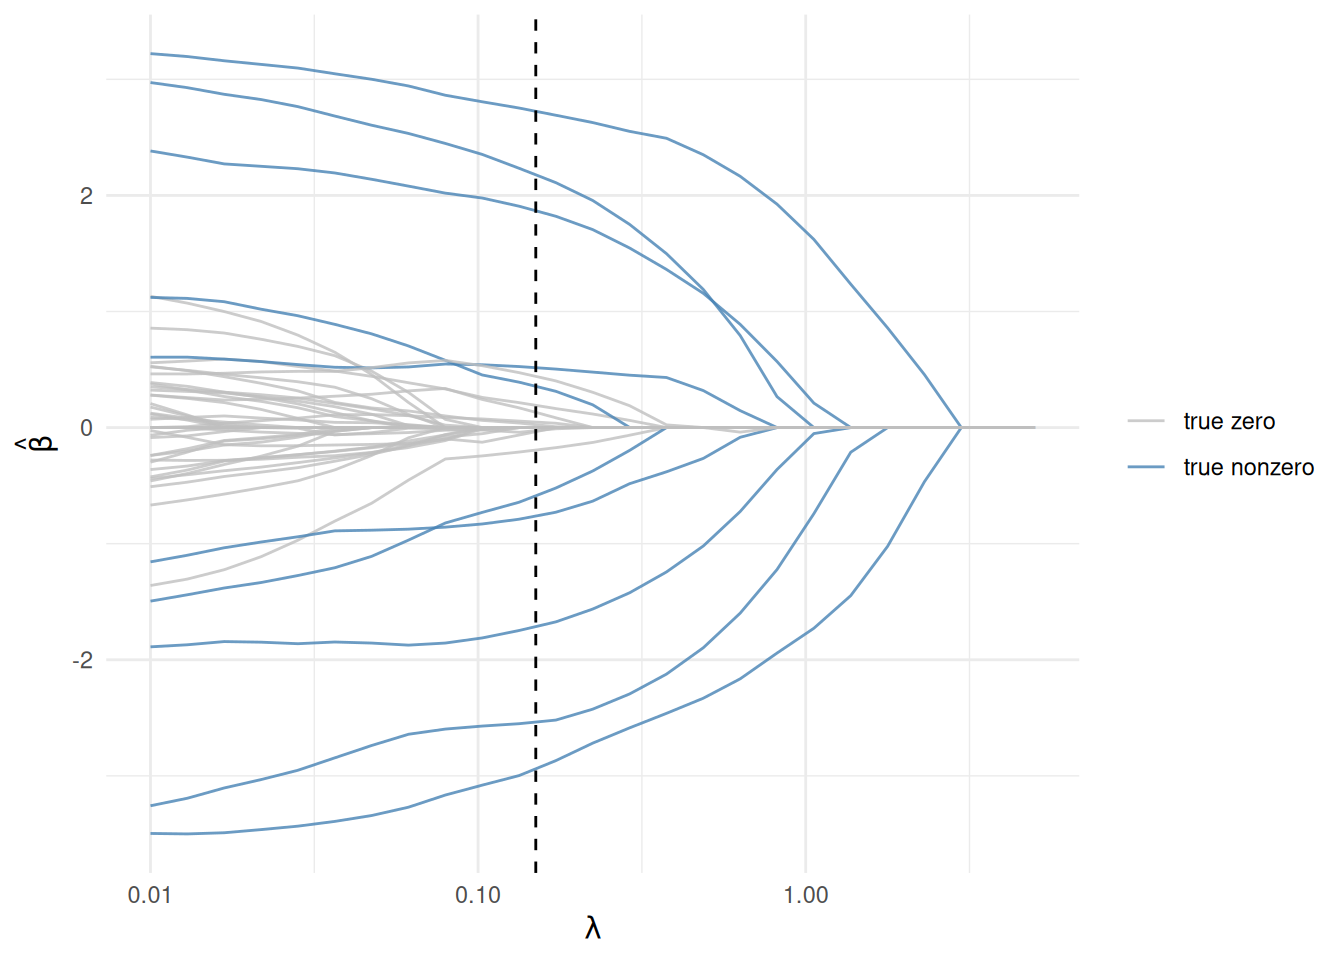
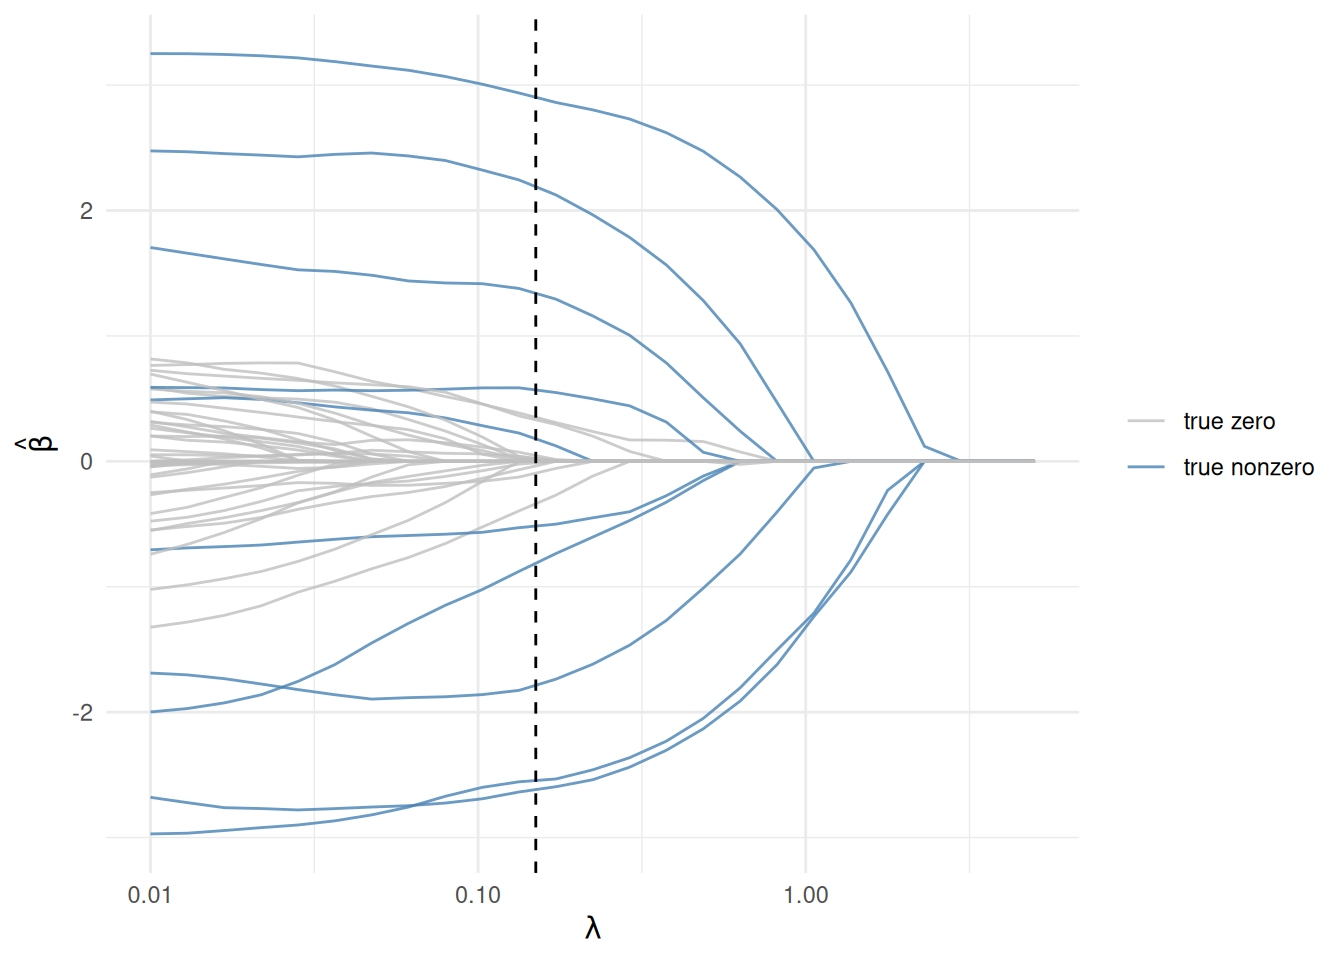
Built site for gh-pages

diff --git a/08-dpp.html b/08-dpp.html
@@ -484,7 +484,7 @@ Is DCP? TRUE </code></pre>
 <pre><code>ℹ Compilation: "OSQP" via CVXR::Dcp2Cone -&gt; CVXR::CvxAttr2Constr -&gt; CVXR::ConeMatrixStuffing -&gt; CVXR::OSQP_QP_Solver</code></pre>
 </div>
 <div class="cell-output cell-output-stderr">
-<pre><code>ℹ Compile time: 0.384s</code></pre>
+<pre><code>ℹ Compile time: 0.421s</code></pre>
 </div>
 <div class="cell-output cell-output-stderr">
 <pre><code>─────────────────────────────── Numerical solver ───────────────────────────────</code></pre>
@@ -508,11 +508,11 @@ settings: algebra = Built-in,
           scaling: on (10 iterations), scaled_termination: off
           warm starting: on, polishing: on, 
 iter   objective    prim res   dual res   gap        rel kkt    rho         time
-   1  -1.6000e+02   8.00e+00   6.83e+02  -3.13e+03   6.83e+02   1.00e-01    7.81e-04s
-  50   8.0194e+01   6.18e-02   2.66e-03  -1.87e-01   6.18e-02   5.00e-01*   1.39e-03s
- 100   8.0454e+01   8.44e-03   7.36e-05  -6.66e-03   8.44e-03   5.57e+00*   2.16e-03s
- 200   8.0462e+01   1.33e-05   5.75e-07  -1.90e-06   1.33e-05   5.57e+00    3.53e-03s
-plsh   8.0462e+01   1.46e-15   1.28e-14  -5.68e-14   1.28e-14   --------    4.01e-03s
+   1  -1.6000e+02   8.00e+00   6.83e+02  -3.13e+03   6.83e+02   1.00e-01    7.55e-04s
+  50   8.0194e+01   6.18e-02   2.66e-03  -1.87e-01   6.18e-02   5.00e-01*   1.47e-03s
+ 100   8.0454e+01   8.44e-03   7.36e-05  -6.66e-03   8.44e-03   5.57e+00*   2.40e-03s
+ 200   8.0462e+01   1.33e-05   5.75e-07  -1.90e-06   1.33e-05   5.57e+00    4.05e-03s
+plsh   8.0462e+01   1.46e-15   1.28e-14  -5.68e-14   1.28e-14   --------    4.63e-03s
 
 status:               solved
 solution polishing:   successful
@@ -521,7 +521,7 @@ optimal objective:    80.4620
 dual objective:       80.4620
 duality gap:          -5.6843e-14
 primal-dual integral: 3.1311e+03
-run time:             4.01e-03s
+run time:             4.63e-03s
 optimal rho estimate: 2.78e+01</code></pre>
 </div>
 <div class="cell-output cell-output-stderr">
@@ -534,10 +534,10 @@ optimal rho estimate: 2.78e+01</code></pre>
 <pre><code>✔ Optimal value: 80.462</code></pre>
 </div>
 <div class="cell-output cell-output-stderr">
-<pre><code>ℹ Compile time: 0.384s</code></pre>
+<pre><code>ℹ Compile time: 0.421s</code></pre>
 </div>
 <div class="cell-output cell-output-stderr">
-<pre><code>ℹ Solver time: 0.025s</code></pre>
+<pre><code>ℹ Solver time: 0.028s</code></pre>
 </div>
 <div class="cell-output cell-output-stdout">
 <pre><code>[1] 80.46205</code></pre>
@@ -560,7 +560,7 @@ optimal rho estimate: 2.78e+01</code></pre>
 <pre><code>ℹ Compilation: "OSQP" via CVXR::Dcp2Cone -&gt; CVXR::CvxAttr2Constr -&gt; CVXR::ConeMatrixStuffing -&gt; CVXR::OSQP_QP_Solver</code></pre>
 </div>
 <div class="cell-output cell-output-stderr">
-<pre><code>ℹ Compile time: 0.032s</code></pre>
+<pre><code>ℹ Compile time: 0.036s</code></pre>
 </div>
 <div class="cell-output cell-output-stderr">
 <pre><code>─────────────────────────────── Numerical solver ───────────────────────────────</code></pre>
@@ -584,10 +584,10 @@ settings: algebra = Built-in,
           scaling: on (10 iterations), scaled_termination: off
           warm starting: on, polishing: on, 
 iter   objective    prim res   dual res   gap        rel kkt    rho         time
-   1  -2.2400e+02   8.00e+00   9.56e+02  -4.38e+03   9.56e+02   1.00e-01    8.48e-04s
- 150   8.1079e+01   1.52e-02   9.34e-07  -2.57e-02   1.52e-02   1.44e+01*   2.67e-03s
- 200   8.1117e+01   8.80e-07   7.04e-07  -2.81e-07   8.80e-07   1.44e+01    3.47e-03s
-plsh   8.1117e+01   1.27e-15   1.67e-14   7.96e-14   7.96e-14   --------    3.94e-03s
+   1  -2.2400e+02   8.00e+00   9.56e+02  -4.38e+03   9.56e+02   1.00e-01    8.13e-04s
+ 150   8.1079e+01   1.52e-02   9.34e-07  -2.57e-02   1.52e-02   1.44e+01*   3.02e-03s
+ 200   8.1117e+01   8.80e-07   7.04e-07  -2.81e-07   8.80e-07   1.44e+01    3.94e-03s
+plsh   8.1117e+01   1.27e-15   1.67e-14   7.96e-14   7.96e-14   --------    4.47e-03s
 
 status:               solved
 solution polishing:   successful
@@ -596,7 +596,7 @@ optimal objective:    81.1172
 dual objective:       81.1172
 duality gap:          7.9581e-14
 primal-dual integral: 4.3836e+03
-run time:             3.94e-03s
+run time:             4.47e-03s
 optimal rho estimate: 1.82e+01</code></pre>
 </div>
 <div class="cell-output cell-output-stderr">
@@ -609,10 +609,10 @@ optimal rho estimate: 1.82e+01</code></pre>
 <pre><code>✔ Optimal value: 81.1172</code></pre>
 </div>
 <div class="cell-output cell-output-stderr">
-<pre><code>ℹ Compile time: 0.032s</code></pre>
+<pre><code>ℹ Compile time: 0.036s</code></pre>
 </div>
 <div class="cell-output cell-output-stderr">
-<pre><code>ℹ Solver time: 0.034s</code></pre>
+<pre><code>ℹ Solver time: 0.041s</code></pre>
 </div>
 <div class="cell-output cell-output-stdout">
 <pre><code>[1] 81.11721</code></pre>
@@ -634,8 +634,8 @@ optimal rho estimate: 1.82e+01</code></pre>
 <pre><code># A tibble: 2 × 4
   expression        min   median mem_alloc
   &lt;bch:expr&gt;   &lt;bch:tm&gt; &lt;bch:tm&gt; &lt;bch:byt&gt;
-1 DPP re-solve   8.99ms   9.33ms   554.7KB
-2 rebuild       25.09ms  25.92ms     9.7MB</code></pre>
+1 DPP re-solve   10.3ms   11.4ms   554.7KB
+2 rebuild        28.7ms   30.1ms     9.7MB</code></pre>
 </div>
 </div>
 <p>On our machine the DPP re-solve is roughly <strong>2–3× faster per solve</strong> and allocates less memory — precisely the compile time we just watched drop. Over a sweep of <span class="math inline">\(K\)</span> values you save that difference <span class="math inline">\(K\)</span> times.</p>

diff --git a/appendix-mosek.html b/appendix-mosek.html
@@ -406,10 +406,11 @@ window.Quarto = {
      this short chapter shows how to plug in MOSEK (free for academics) for the cases
      where a commercial conic solver helps. The solve chunk is `eval: false` on purpose
      so the chapter renders without MOSEK installed. The captured output is genuine:
-     a 5x5 nearest-PSD SDP solved with MOSEK 11.1.2 on 2026-06-10. The CVXR summary is
-     real psolve(verbose=TRUE) output; MOSEK's native log is real Rmosek verbose=10
-     output (CVXR will stream it inline under verbose in a future release --- see
-     new_design/features/TODO.md). -->
+     a 5x5 nearest-PSD SDP solved with CVXR 1.9.2 + MOSEK 11.1.2 on 2026-08-24. The
+     CVXR summary is real psolve(verbose=TRUE) output; MOSEK's native log is real
+     Rmosek verbose=10 output (CVXR will stream it inline under verbose in a future
+     release --- see new_design/features/TODO.md). To regenerate: flip eval to true,
+     render locally with MOSEK installed, paste the output back, flip eval off. -->
 <div class="callout callout-style-default callout-note callout-titled">
 <div class="callout-header d-flex align-content-center">
 <div class="callout-icon-container">
@@ -488,17 +489,18 @@ window.Quarto = {
 </div>
 </div>
 <p>With <code>verbose = TRUE</code>, CVXR reports the compilation and the solve summary — note that the chosen solver is <code>MOSEK</code>, and that compile time and solver time are tracked separately (<a href="08-dpp.html" class="quarto-xref"><span>Chapter 8</span></a>):</p>
-<pre><code>────────────────────────────── CVXR v1.9.1 ──────────────────────────────
+<pre><code>────────────────────────────── CVXR v1.9.2 ──────────────────────────────
 ℹ Problem: 1 variable, 0 constraints (DCP)
 ℹ Compilation: "MOSEK" via CVXR::Dcp2Cone -&gt; CVXR::CvxAttr2Constr -&gt;
-               CVXR::ConeMatrixStuffing -&gt; CVXR::Mosek_Solver
-ℹ Compile time: 0.21s
+               CVXR::ExactCone2Cone -&gt; CVXR::ConeMatrixStuffing -&gt;
+               CVXR::Mosek_Solver
+ℹ Compile time: 0.091s
 ─────────────────────────── Numerical solver ────────────────────────────
 ──────────────────────────────── Summary ────────────────────────────────
 ✔ Status: optimal
 ✔ Optimal value: 3.6305
-ℹ Compile time: 0.21s
-ℹ Solver time: 0.019s</code></pre>
+ℹ Compile time: 0.091s
+ℹ Solver time: 0.024s</code></pre>
 <p>MOSEK also keeps its <strong>own</strong> detailed log of the solve — the problem type, the interior-point iteration table, and a final optimizer summary. A future CVXR release will stream this log inline whenever you pass <code>verbose = TRUE</code> (as CVXPY does); here is what MOSEK reports for this SDP:</p>
 <pre><code>Problem
   Name                   :
@@ -506,6 +508,8 @@ window.Quarto = {
   Type                   : CONIC (conic optimization problem)
   Constraints            : 0
   Affine conic cons.     : 2 (42 rows)
+  Disjunctive cons.      : 0
+  Cones                  : 0
   Scalar variables       : 16
   Matrix variables       : 1 (scalarized: 1)
   Integer variables      : 0
@@ -528,16 +532,16 @@ ITE PFEAS    DFEAS    GFEAS    PRSTATUS   POBJ              DOBJ              MU
 6   4.0e-06  2.5e-06  1.1e-08  1.00e+00   3.630469253e+00   3.630462235e+00   2.5e-06  0.00
 7   4.0e-07  2.5e-07  3.7e-10  1.00e+00   3.630493170e+00   3.630492590e+00   2.5e-07  0.00
 8   1.2e-08  7.5e-09  2.0e-12  1.00e+00   3.630495992e+00   3.630495975e+00   7.5e-09  0.00
-Optimizer terminated. Time: 0.00
+Optimizer terminated. Time: 0.01
 
 Interior-point solution summary
   Problem status  : PRIMAL_AND_DUAL_FEASIBLE
   Solution status : OPTIMAL
-  Primal.  obj: 3.6304959921e+00    nrm: 4e+00    Viol.  var: 0e+00   barvar: 0e+00
-  Dual.    obj: 3.6304959749e+00    nrm: 2e+00    Viol.  var: 2e-11   barvar: 1e-24
+  Primal.  obj: 3.6304959921e+00    nrm: 4e+00    Viol.  var: 0e+00   barvar: 0e+00   acc: 3e-08
+  Dual.    obj: 3.6304959749e+00    nrm: 2e+00    Viol.  var: 2e-11   barvar: 1e-24   acc: 7e-09
 Optimizer summary
-  Optimizer              -                    time: 0.00
-    Interior-point       - iterations : 8     time: 0.00
+  Optimizer              -                    time: 0.01
+    Interior-point       - iterations : 8     time: 0.01
     Simplex              - iterations : 0     time: 0.00
     Mixed integer        - relaxations: 0     time: 0.00</code></pre>
 <p>Read the iteration table top to bottom: MOSEK drives the primal/dual feasibility residuals (<code>PFEAS</code>, <code>DFEAS</code>) and the duality gap (<code>MU</code>) down toward zero, the primal and dual objectives (<code>POBJ</code>, <code>DOBJ</code>) squeeze together, and after eight interior-point iterations they meet at the optimal value <strong>3.6305</strong> — exactly the number in CVXR’s summary. The solution <span class="math inline">\(X^\star\)</span> is the original matrix with its negative eigenvalues clipped to zero, which is the classic closed form for this problem; CVXR and MOSEK recover it numerically without you having to know that.</p>

diff --git a/02-gentle-intro.html b/02-gentle-intro.html
@@ -548,7 +548,7 @@ window.Quarto = {
 <pre><code>ℹ Compilation: "OSQP" via CVXR::Dcp2Cone -&gt; CVXR::CvxAttr2Constr -&gt; CVXR::ConeMatrixStuffing -&gt; CVXR::OSQP_QP_Solver</code></pre>
 </div>
 <div class="cell-output cell-output-stderr">
-<pre><code>ℹ Compile time: 0.211s</code></pre>
+<pre><code>ℹ Compile time: 0.236s</code></pre>
 </div>
 <div class="cell-output cell-output-stderr">
 <pre><code>─────────────────────────────── Numerical solver ───────────────────────────────</code></pre>
@@ -572,9 +572,9 @@ settings: algebra = Built-in,
           scaling: on (10 iterations), scaled_termination: off
           warm starting: on, polishing: on, 
 iter   objective    prim res   dual res   gap        rel kkt    rho         time
-   1   0.0000e+00   1.00e+00   1.00e+02  -5.00e+01   1.00e+02   1.00e-01    3.96e-05s
-  50   2.0000e-01   4.87e-10   6.73e-10   2.79e-10   6.73e-10   1.00e-01    5.42e-05s
-plsh   2.0000e-01   1.57e-16   1.57e-16  -1.11e-16   1.57e-16   --------    7.29e-05s
+   1   0.0000e+00   1.00e+00   1.00e+02  -5.00e+01   1.00e+02   1.00e-01    5.34e-05s
+  50   2.0000e-01   4.87e-10   6.73e-10   2.79e-10   6.73e-10   1.00e-01    7.80e-05s
+plsh   2.0000e-01   1.57e-16   1.57e-16  -1.11e-16   1.57e-16   --------    1.07e-04s
 
 status:               solved
 solution polishing:   successful
@@ -583,7 +583,7 @@ optimal objective:    0.2000
 dual objective:       0.2000
 duality gap:          -1.1102e-16
 primal-dual integral: 5.0000e+01
-run time:             7.29e-05s
+run time:             1.07e-04s
 optimal rho estimate: 7.60e-02</code></pre>
 </div>
 <div class="cell-output cell-output-stderr">
@@ -596,10 +596,10 @@ optimal rho estimate: 7.60e-02</code></pre>
 <pre><code>✔ Optimal value: 0.2</code></pre>
 </div>
 <div class="cell-output cell-output-stderr">
-<pre><code>ℹ Compile time: 0.211s</code></pre>
+<pre><code>ℹ Compile time: 0.236s</code></pre>
 </div>
 <div class="cell-output cell-output-stderr">
-<pre><code>ℹ Solver time: 0.046s</code></pre>
+<pre><code>ℹ Solver time: 0.054s</code></pre>
 </div>
 <div class="cell-output cell-output-stdout">
 <pre><code>[1] 0.2</code></pre>
@@ -730,10 +730,10 @@ X10  5.09475916  5.09475916</code></pre>
 <div class="code-copy-outer-scaffold"><div class="sourceCode cell-code" id="cb45"><pre class="sourceCode r code-with-copy"><code class="sourceCode r"><span id="cb45-1"><a href="#cb45-1" aria-hidden="true" tabindex="-1"></a><span class="fu">value</span>(beta)</span></code></pre></div><button title="Copy to Clipboard" class="code-copy-button"><i class="bi"></i></button></div>
 <div class="cell-output cell-output-stdout">
 <pre><code>               [,1]
- [1,] -3.673960e-18
- [2,] -2.797969e-18
- [3,]  2.131154e-18
- [4,]  4.339122e-19
+ [1,] -3.663280e-18
+ [2,] -2.775389e-18
+ [3,]  2.116383e-18
+ [4,]  4.424205e-19
  [5,]  1.190672e+00
  [6,]  1.460162e+00
  [7,]  1.817840e+00
@@ -747,10 +747,10 @@ X10  5.09475916  5.09475916</code></pre>
 <div class="code-copy-outer-scaffold"><div class="sourceCode cell-code" id="cb47"><pre class="sourceCode r code-with-copy"><code class="sourceCode r"><span id="cb47-1"><a href="#cb47-1" aria-hidden="true" tabindex="-1"></a><span class="fu">cbind</span>(<span class="at">CVXR =</span> <span class="fu">value</span>(beta), <span class="at">nnls =</span> nnls<span class="sc">::</span><span class="fu">nnls</span>(X, Y)<span class="sc">$</span>x)</span></code></pre></div><button title="Copy to Clipboard" class="code-copy-button"><i class="bi"></i></button></div>
 <div class="cell-output cell-output-stdout">
 <pre><code>                        nnls
- [1,] -3.673960e-18 0.000000
- [2,] -2.797969e-18 0.000000
- [3,]  2.131154e-18 0.000000
- [4,]  4.339122e-19 0.000000
+ [1,] -3.663280e-18 0.000000
+ [2,] -2.775389e-18 0.000000
+ [3,]  2.116383e-18 0.000000
+ [4,]  4.424205e-19 0.000000
  [5,]  1.190672e+00 1.190672
  [6,]  1.460162e+00 1.460162
  [7,]  1.817840e+00 1.817840

diff --git a/05-elastic-net.html b/05-elastic-net.html
@@ -470,7 +470,7 @@ window.Quarto = {
 <span id="cb3-4"><a href="#cb3-4" aria-hidden="true" tabindex="-1"></a>prob <span class="ot">&lt;-</span> <span class="fu">Problem</span>(<span class="fu">Minimize</span>(loss <span class="sc">+</span> <span class="fu">elastic_reg</span>(beta, lambda, <span class="at">alpha =</span> <span class="dv">1</span>)))</span>
 <span id="cb3-5"><a href="#cb3-5" aria-hidden="true" tabindex="-1"></a><span class="fu">psolve</span>(prob)</span></code></pre></div><button title="Copy to Clipboard" class="code-copy-button"><i class="bi"></i></button></div>
 <div class="cell-output cell-output-stdout">
-<pre><code>[1] 3.958451</code></pre>
+<pre><code>[1] 3.864977</code></pre>
 </div>
 <div class="code-copy-outer-scaffold"><div class="sourceCode cell-code" id="cb5"><pre class="sourceCode r code-with-copy"><code class="sourceCode r"><span id="cb5-1"><a href="#cb5-1" aria-hidden="true" tabindex="-1"></a><span class="fu">check_solver_status</span>(prob)</span></code></pre></div><button title="Copy to Clipboard" class="code-copy-button"><i class="bi"></i></button></div>
 </div>
@@ -484,19 +484,19 @@ window.Quarto = {
 <span id="cb6-6"><a href="#cb6-6" aria-hidden="true" tabindex="-1"></a>           <span class="at">glmnet =</span> <span class="fu">round</span>(<span class="fu">as.numeric</span>(<span class="fu">coef</span>(g)[<span class="sc">-</span><span class="dv">1</span>]), <span class="dv">3</span>))[<span class="fu">c</span>(nz, <span class="dv">2</span>, <span class="dv">3</span>, <span class="dv">4</span>), ]</span></code></pre></div><button title="Copy to Clipboard" class="code-copy-button"><i class="bi"></i></button></div>
 <div class="cell-output cell-output-stdout">
 <pre><code>   truth   CVXR glmnet
-1    3.0  2.726  2.725
-5   -2.5 -2.540 -2.540
-10   2.0  1.871  1.870
-15  -1.5 -0.764 -0.764
-20   1.0  0.358  0.358
-25  -3.0 -2.943 -2.943
-30   2.5  2.181  2.181
-35  -2.0 -1.716 -1.717
-40   1.5  0.517  0.520
-45  -1.0 -0.591 -0.591
-2    0.0  0.192  0.192
+1    3.0  2.902  2.904
+5   -2.5 -2.544 -2.540
+10   2.0  1.344  1.338
+15  -1.5 -0.514 -0.512
+20   1.0  0.196  0.195
+25  -3.0 -2.604 -2.602
+30   2.5  2.196  2.196
+35  -2.0 -1.795 -1.794
+40   1.5  0.569  0.567
+45  -1.0 -0.816 -0.815
+2    0.0  0.000  0.000
 3    0.0  0.000  0.000
-4    0.0 -0.033 -0.032</code></pre>
+4    0.0 -0.038 -0.043</code></pre>
 </div>
 </div>
 <p>The lasso recovers every true coefficient’s <strong>sign and rough magnitude</strong>, leaves the irrelevant ones at (or near) zero, and agrees with <code>glmnet</code> to three decimals — a genuine, non-trivial fit, not a vector of zeros. (Correlated features buy a few small false positives; that is the cost of the setting.)</p>
@@ -560,7 +560,7 @@ window.Quarto = {
 <span id="cb10-8"><a href="#cb10-8" aria-hidden="true" tabindex="-1"></a>  <span class="at">lasso_zeros =</span> <span class="fu">sum</span>(<span class="fu">abs</span>(lasso_b) <span class="sc">&lt;</span> <span class="fl">1e-4</span>))</span></code></pre></div><button title="Copy to Clipboard" class="code-copy-button"><i class="bi"></i></button></div>
 <div class="cell-output cell-output-stdout">
 <pre><code>ridge_zeros lasso_zeros 
-          0          32 </code></pre>
+          0          33 </code></pre>
 </div>
 </div>
 <p>Ridge shrinks every coefficient but zeroes essentially none; the lasso zeroes the large majority. That is the defining difference — only the <span class="math inline">\(\ell_1\)</span> penalty performs <strong>variable selection</strong>. The elastic net (<span class="math inline">\(0 &lt; \alpha &lt; 1\)</span>) blends the two, which helps when correlated predictors should enter or leave together.</p>
